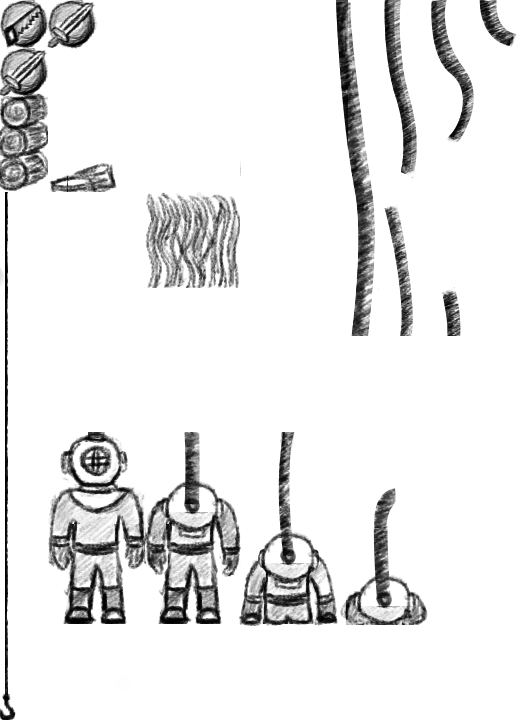
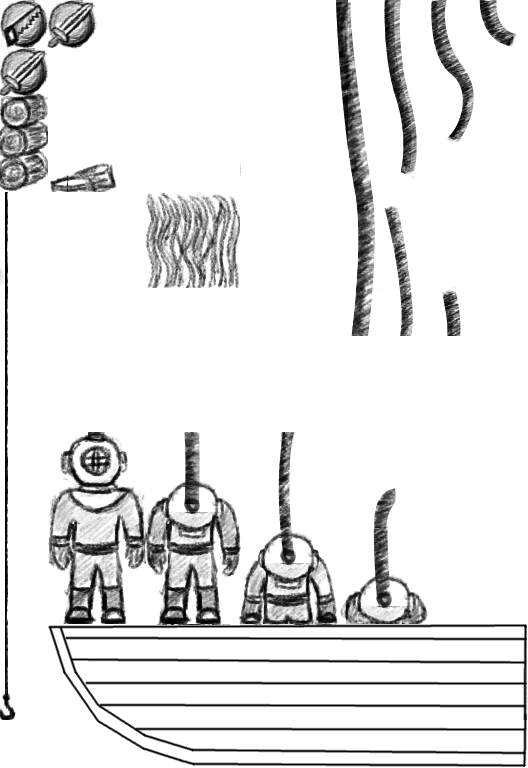
v0.13 added boat object/sprite

diff --git a/Objects.cpp b/Objects.cpp
@@ -32,7 +32,8 @@ void Objects::InitObjects()
 	frameSwitch = 60;
 	
 	framePlant = 12;
-	
+	frameBoat = 14;
+
 	goingUp = false;
 	goingDown = true;
 	
@@ -86,6 +87,11 @@ void Objects::InitObjects()
 	plantSprite2.y = 1*TILE_SIZE;
 	plantSprite2.w = 2*TILE_SIZE;
 	plantSprite2.h = 2*TILE_SIZE;
+
+	boat.x = 8*TILE_SIZE;
+	boat.y = 0*TILE_SIZE;
+	boat.w = 10*TILE_SIZE;
+	boat.h = 3*TILE_SIZE;
 }
 
 int Objects::LoadMedia(SDL_Renderer* Renderer)
@@ -147,7 +153,7 @@ int Objects::LoadMedia(SDL_Renderer* Renderer)
 		ObjectClips[9].y = 9*TILE_SIZE;
 		ObjectClips[9].w = 2*TILE_SIZE;
 		ObjectClips[9].h = 4*TILE_SIZE;
-		// Diver sprite		
+		//Door sprite	
 		ObjectClips[10].x = 0*TILE_SIZE;
 		ObjectClips[10].y = 2*TILE_SIZE;
 		ObjectClips[10].w = TILE_SIZE;
@@ -157,16 +163,21 @@ int Objects::LoadMedia(SDL_Renderer* Renderer)
 		ObjectClips[11].y = 2*TILE_SIZE;
 		ObjectClips[11].w = TILE_SIZE;
 		ObjectClips[11].h = 2*TILE_SIZE;
-						
+		//plant sprite				
 		ObjectClips[12].x = 3*TILE_SIZE;
 		ObjectClips[12].y = 4*TILE_SIZE;
 		ObjectClips[12].w = 2*TILE_SIZE;
 		ObjectClips[12].h = 2*TILE_SIZE;
-		
+		//fishing rod sprite
 		ObjectClips[13].x = 0*TILE_SIZE; 
 		ObjectClips[13].y = 4*TILE_SIZE;
 		ObjectClips[13].w = 1*TILE_SIZE;
 		ObjectClips[13].h = 12*TILE_SIZE;
+		//fishing boat sprite
+		ObjectClips[14].x = 1*TILE_SIZE; 
+		ObjectClips[14].y = 13*TILE_SIZE;
+		ObjectClips[14].w = 10*TILE_SIZE;
+		ObjectClips[14].h = 3*TILE_SIZE;
 	}	
 	return true;
 }
@@ -309,6 +320,7 @@ void Objects::RenderBackground(SDL_Renderer* Renderer, SDL_Rect* camera, bool do
 	}
 	ItemSheetTexture.Render(Renderer, this->diverHose.x - camera->x, this->diverHose.y - camera->y, &ObjectClips[frameHose]);
 	ItemSheetTexture.Render(Renderer, this->diver.x - camera->x, this->diver.y - camera->y, &ObjectClips[frameDiver]);
+	ItemSheetTexture.Render(Renderer, this->boat.x - camera->x, this->boat.y - camera->y, &ObjectClips[frameBoat]);
 }
 
 void Objects::Cleanup()

diff --git a/Objects.h b/Objects.h
@@ -24,7 +24,7 @@ public:
 	
 	void Cleanup();
 	
-	SDL_Rect ObjectClips[13];
+	SDL_Rect ObjectClips[14];
 	
 	SDL_Rect chest;
 	SDL_Rect door;
@@ -41,9 +41,10 @@ public:
 	SDL_Rect item_sawSprite;
 	SDL_Rect item_sword;
 	SDL_Rect item_swordSprite;
+	SDL_Rect boat;
 	
 	int framePlant;
-	
+	int frameBoat;
 	int frameHose;
 	int frameCounterHose;
 	int startFrameHose;
